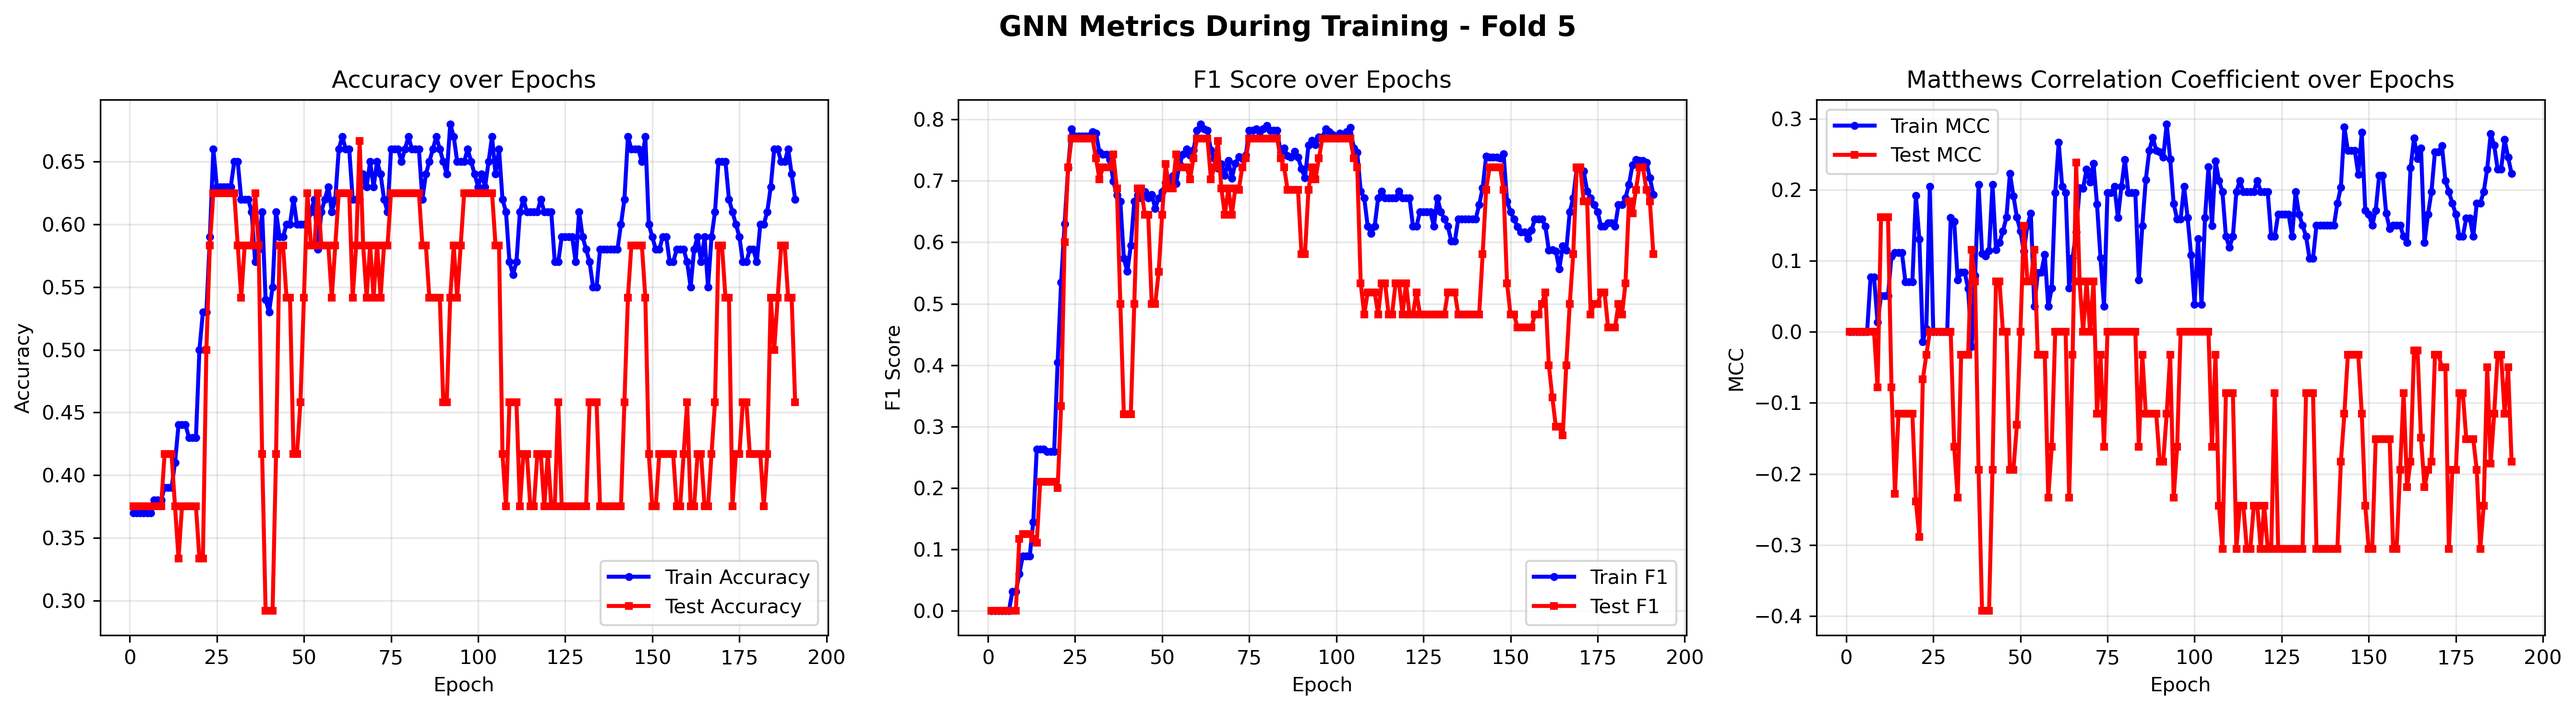
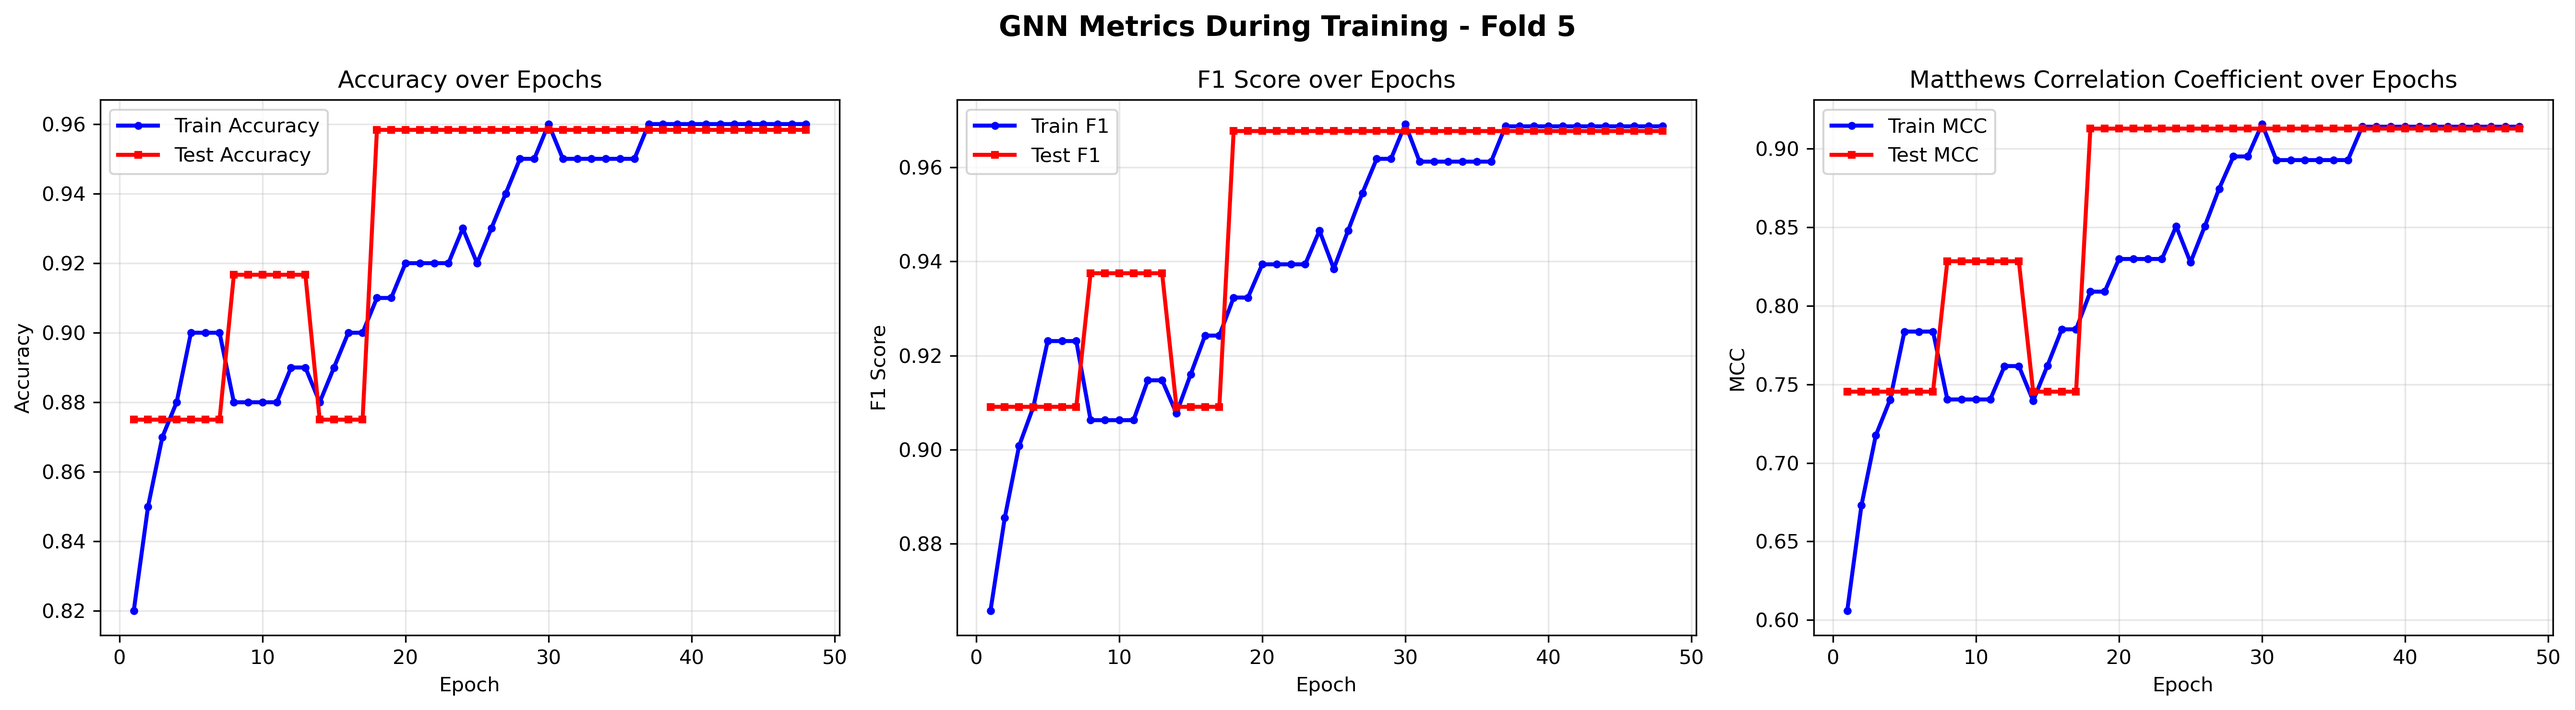
testing on cutoff data + best mcc

diff --git a/08-gat.py b/08-gat.py
@@ -835,8 +835,12 @@ print(f"Total graphs in post (fixed validation): {len(df_graph_post)}")
 
 # prepare post dataset once (shared across all folds)
 cols_post = df_graph_post.columns[:-1]
-test_dataset = df_graph_post.apply(lambda x: get_graph_hot_encoding_v3(x, cols_post), axis=1)
-test_loader = DataLoader(test_dataset, batch_size=32)
+#renamed to avoid mixup with the testing during the training process
+# test_dataset = df_graph_post.apply(lambda x: get_graph_hot_encoding_v3(x, cols_post), axis=1)
+# test_loader = DataLoader(test_dataset, batch_size=32)
+post_test_dataset = df_graph_post.apply(lambda x: get_graph_hot_encoding_v3(x, cols_post), axis=1)
+post_test_loader = DataLoader(post_test_dataset, batch_size=32)
+
 
 gnn_fold_results = []
 
@@ -950,10 +954,12 @@ for fold, (train_idx, val_idx) in enumerate(fold_splits):
     # Per-fold early stopping
     best_model_state = None
     best_model_state_by_acc = None
+    best_model_state_by_mcc = None
     best_acc = 0.0
     best_f1 = 0.0
+    best_mcc = 0.0
     no_improve_counter = 0
-    max_no_improve = 10
+    max_no_improve = 30 #10
     
     # Tracking metrics for plotting
     epoch_metrics = {
@@ -994,19 +1000,25 @@ for fold, (train_idx, val_idx) in enumerate(fold_splits):
         if test_f1 > best_f1:  # or test_mcc > best_mcc
             best_f1 = test_f1
             best_model_state = copy.deepcopy(model.state_dict())
-            no_improve_counter = 0
-        else:
-            no_improve_counter += 1
+        #     no_improve_counter = 0
+        # else:
+        #     no_improve_counter += 1
         if test_acc > best_acc:
             best_acc = test_acc
             best_model_state_by_acc = copy.deepcopy(model.state_dict())
         #     no_improve_counter = 0
         # else:
         #     no_improve_counter += 1
+        if test_mcc > best_mcc:  # or test_mcc > best_mcc
+            best_mcc = test_mcc
+            best_model_state_by_mcc = copy.deepcopy(model.state_dict())
+            no_improve_counter = 0
+        else:
+            no_improve_counter += 1
 
         print(f'Epoch: {epoch:03d}, Train Acc: {train_acc:.4f}, Test Acc: {test_acc:.4f}, Test F1: {test_f1:.4f}, Test MCC: {test_mcc:.4f}')
 
-        if no_improve_counter >= max_no_improve and epoch>190:
+        if no_improve_counter >= max_no_improve : # and epoch>190
             print("Early stopping due to no improvement")
             break
 
@@ -1019,15 +1031,35 @@ for fold, (train_idx, val_idx) in enumerate(fold_splits):
 
     # Evaluate restored model on test set to collect predictions and compute metrics
     model.eval()
-    y_true = []
-    y_pred = []
-    with torch.no_grad():
-        for data in test_loader:
-            edge_weight = data.edge_attr[:, 0]
-            out = model(data.x, data.edge_index, edge_weight, data.batch)
-            pred = out.argmax(dim=1)
-            y_true.extend(data.y.cpu().numpy().tolist())
-            y_pred.extend(pred.cpu().numpy().tolist())
+
+    # After the fold loop — evaluate best model on true holdout
+    print("\n--- Final evaluation on post (holdout) dataset ---")
+    print("\n -- model by f1 --")
+    model.load_state_dict(best_model_state)
+    final_acc, final_preds, final_labels = test(post_test_loader, return_predictions=True)
+    print(f"Post holdout Acc: {final_acc:.4f}")
+    print(f"Post holdout F1: {f1_score(final_labels, final_preds, zero_division=0):.4f}")
+    print(f"Post holdout MCC: {matthews_corrcoef(final_labels, final_preds):.4f}")
+    print("\n -- model by accuracy --")
+    model.load_state_dict(best_model_state_by_acc)
+    final_acc, final_preds, final_labels = test(post_test_loader, return_predictions=True)
+    print(f"Post holdout Acc: {final_acc:.4f}")
+    print(f"Post holdout F1: {f1_score(final_labels, final_preds, zero_division=0):.4f}")
+    print(f"Post holdout MCC: {matthews_corrcoef(final_labels, final_preds):.4f}")
+    print("\n -- model by mcc --")
+    model.load_state_dict(best_model_state_by_mcc)
+    final_acc, final_preds, final_labels = test(post_test_loader, return_predictions=True)
+    print(f"Post holdout Acc: {final_acc:.4f}")
+    print(f"Post holdout F1: {f1_score(final_labels, final_preds, zero_division=0):.4f}")
+    print(f"Post holdout MCC: {matthews_corrcoef(final_labels, final_preds):.4f}")
+y_true = []
+y_pred = []
+with torch.no_grad():
+    for data in test_loader:
+        out = model(data.x, data.edge_index, data.edge_attr, data.batch)  # full edge_attr
+        pred = out.argmax(dim=1)
+        y_true.extend(data.y.cpu().numpy().tolist())
+        y_pred.extend(pred.cpu().numpy().tolist())
 
     # Diagnostic outputs to detect collapsed predictions / class imbalance
     try:
@@ -1059,6 +1091,7 @@ for fold, (train_idx, val_idx) in enumerate(fold_splits):
     print(f"Fold {fold + 1} best Test Acc: {best_acc:.4f}")
     print(f"Fold {fold + 1} metrics: Acc={fold_acc:.4f}, F1={fold_f1:.4f}, MCC={fold_mcc:.4f}")
     gnn_fold_results.append({'accuracy': fold_acc, 'f1': fold_f1, 'mcc': fold_mcc})
+    
 # print("------------------------------------------------------")
 # display_graph_and_weights(train_dataset.iloc[0])  # Display the first graph's edge index and attributes for verification
 # print("------------------------------------------------------")
